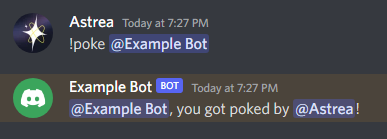
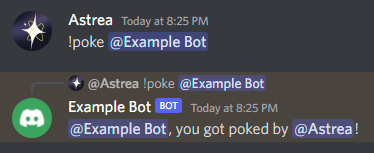
docs: fix errors with prefixed cmd guide

Changed region(s): [[0.0294, 0.4892, 0.9706, 0.9209], [0.1765, 0.0863, 0.5588, 0.4029], [0.0294, 0.0576, 0.1471, 0.4029]]

diff --git a/docs/src/Guides/07 Creating Prefixed Commands.md b/docs/src/Guides/07 Creating Prefixed Commands.md
@@ -177,7 +177,7 @@ Prefixed commands can be typehinted with some Discord models, like so:
 ```python
 @prefixed_command()
 async def poke(ctx: PrefixedContext, target: Member):
-    await ctx.send(f"{target.user.mention}, you got poked by {ctx.author.mention}!")
+    await ctx.reply(f"{target.user.mention}, you got poked by {ctx.author.mention}!")
 ```
 
 The argument here will automatically be converted into a `Member` object:
@@ -236,7 +236,7 @@ async def one_or_two(ctx: PrefixedContext, num: Literal[1, 2]):
 Using `typing.Annotated` can allow you to have more proper typehints when using converters:
 
 ```python
-class JudgementConverter(molter.Converter):
+class JudgementConverter(Converter):
     async def convert(self, ctx: PrefixedContext, argument: str):
         return f"{ctx.author.mention} is {argument}."
 
